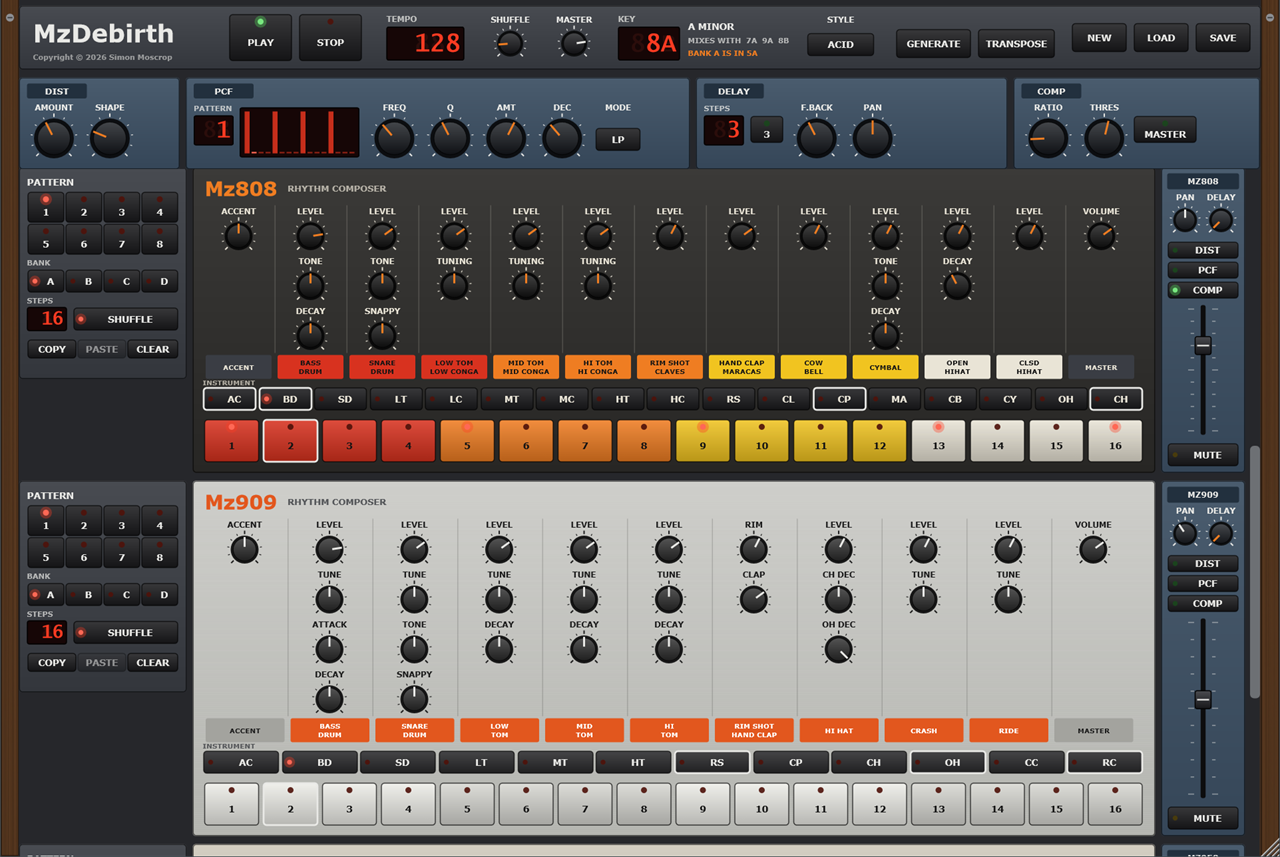
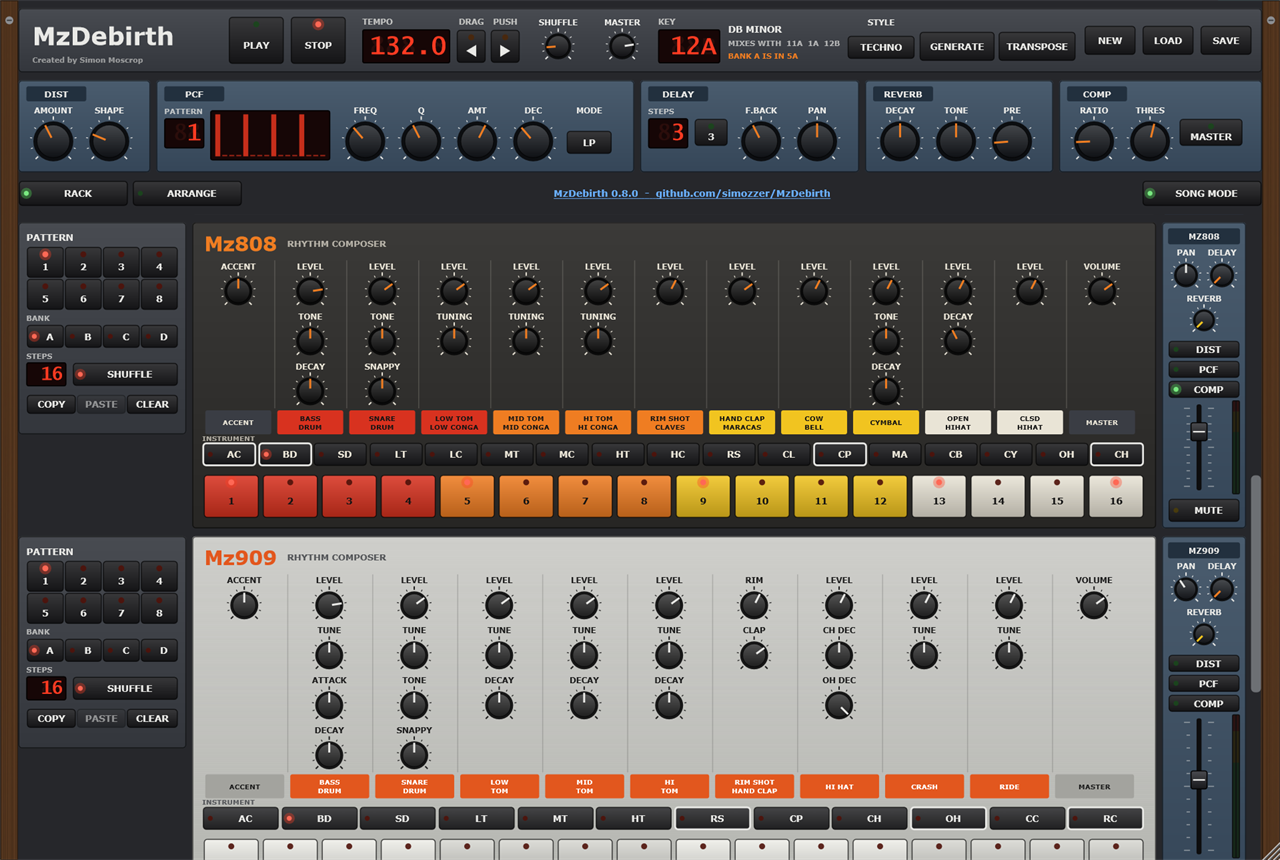
README: new screenshots, and the reverb, the link and the Mac files in the text
Every picture taken again from 0.8.0 with the demo song: the rack, the
Arrange window, KEY EDIT, DRUM EDIT and the drum machines, showing the
REVERB, the meters, the tempo to a tenth, DRAG and PUSH, a track a machine
with RACK, and the link to the project page. And a new one, the whole rack
in a tall window with the 303, 101 and 950 folded.

diff --git a/README.md b/README.md
@@ -2,11 +2,11 @@
 
 A rack of the Mz synths, played from a step sequencer, in the spirit of the old ReBirth
 RB-338: five machines, each with its own panel, its own patterns and a channel on the mixer,
-all on one clock, with ReBirth's effects units along the top. And beside the rack, an
-[Arrange window](#the-arrange-window) after Cubase on the Atari ST, to lay the patterns out
-as a song and write parts of any length.
+all on one clock, with ReBirth's effects units and a reverb along the top. And beside the
+rack, an [Arrange window](#the-arrange-window) after Cubase on the Atari ST, to lay the
+patterns out as a song and write parts of any length.
 
-![The rack: the transport and KEY section, the effects units, the RACK and ARRANGE tabs, the Mz303 and the Mz101](docs/img/rack.png)
+![The rack: the transport and KEY section; the DIST, PCF, DELAY, REVERB and COMP units; the RACK and ARRANGE tabs and the link to the project page; the Mz303 and the Mz101, each with its pattern section and mixer strip](docs/img/rack.png)
 
 It plays the synths' real engines - [Mz303](https://github.com/simozzer/Mz303),
 [Mz101](https://github.com/simozzer/Mz101), [Mz808](https://github.com/simozzer/Mz808),
@@ -73,6 +73,8 @@ but not yet tried on a real one. If something doesn't work, please
   `.mzdebirth` files. The app also remembers where it was left.
 - **RACK** and **ARRANGE** (or F1 and F2), under the effects, switch between the rack and
   the Arrange window, where the patterns become a song - see below.
+- The link between the tabs shows the version you have; click it for the project page,
+  where the next version, what's new in it and the issue tracker are.
 
 ## The Arrange window
 
@@ -82,7 +84,7 @@ each track *parts*: notes of any length at any position, not 16-step patterns. T
 still a click away, for the sound: every knob, fader and effect plays the song as it plays
 the patterns, and a track's **RACK** goes straight to its machine.
 
-![The Arrange window with the demo song: the rolls and risers building to each drop, and the breakdown between](docs/img/arrange.png)
+![The Arrange window with the demo song: a track for each machine, each with its RACK switch, and the rolls and risers building to each drop, with the breakdown between](docs/img/arrange.png)
 
 The **demo song** a new rack opens with shows the way: bank A's grooves laid out over 64
 bars at 132 bpm, with parts written for it. In each build the kick drops away, a 909 snare
@@ -162,14 +164,16 @@ Double-click a part to edit it:
 The step editors of the **Mz303**, **Mz101** and **Mz950** fold away: click the
 **STEP SEQUENCER** bar over one, and the machine folds down to its knobs, its pattern
 section and mixer strip packing down beside them (the inserts and MUTE as lettered keys that
-glow when on, the fader and meter on their sides). The bar stays where it was, under the knobs, to unfold
-it again. The rack remembers which are folded.
+glow when on, the fader and meter on their sides). The bar stays where it was, under the
+knobs, to unfold it again. The rack remembers which are folded.
+
+![The whole rack in a tall window, the Mz303, Mz101 and Mz950 folded down to their knobs with their pattern sections and mixer strips packed beside them, the Mz808 and Mz909 in full](docs/img/rack-folded.png)
 
 Every machine has four banks of eight patterns, of up to sixteen steps (**STEPS**), with
 **COPY**, **PASTE** and **CLEAR**, and its own **SHUFFLE** switch: whether it swings with the
 transport's SHUFFLE knob.
 
-![The Mz808 and the Mz909, each with its pattern section and mixer strip](docs/img/drum-machines.png)
+![The Mz808 and the Mz909, each with its pattern section and mixer strip: pan, the DELAY and REVERB sends, the inserts, the fader and its meter](docs/img/drum-machines.png)
 
 ## Effects and the mixer
 
@@ -262,7 +266,8 @@ cmake.
     Source/UI/Arrange   the Arrange window, and KEY EDIT and DRUM EDIT
     Source/Processor.*  the rack as a JUCE processor, and its saved state
     Tests/SeqCheck.cpp  the check
-    installer/          the Inno Setup script, and the zip's README
+    installer/          the Inno Setup script, the zip's README, and mac/: the Mac's install
+                        script and READ ME FIRST, and how its build makes the disks
 
 ## Licence
 
